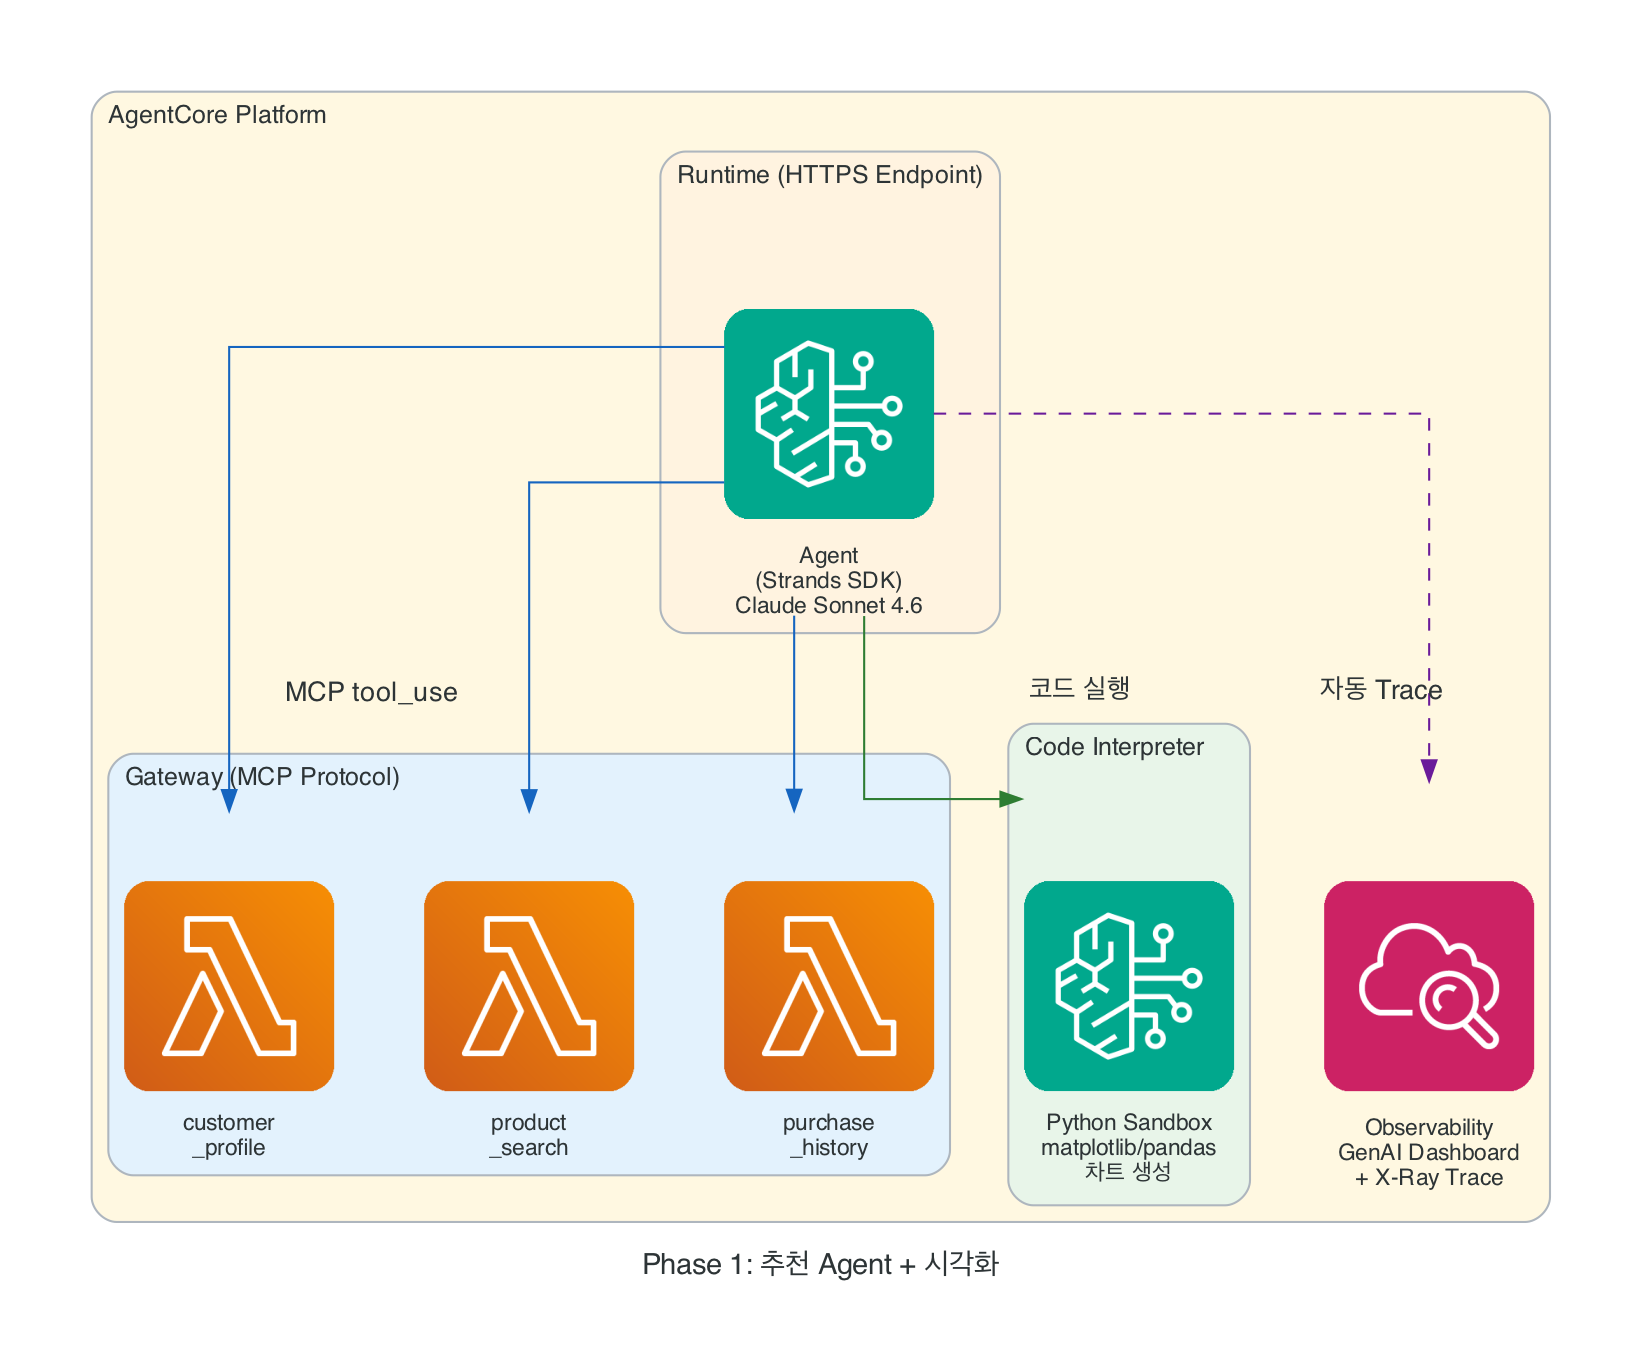
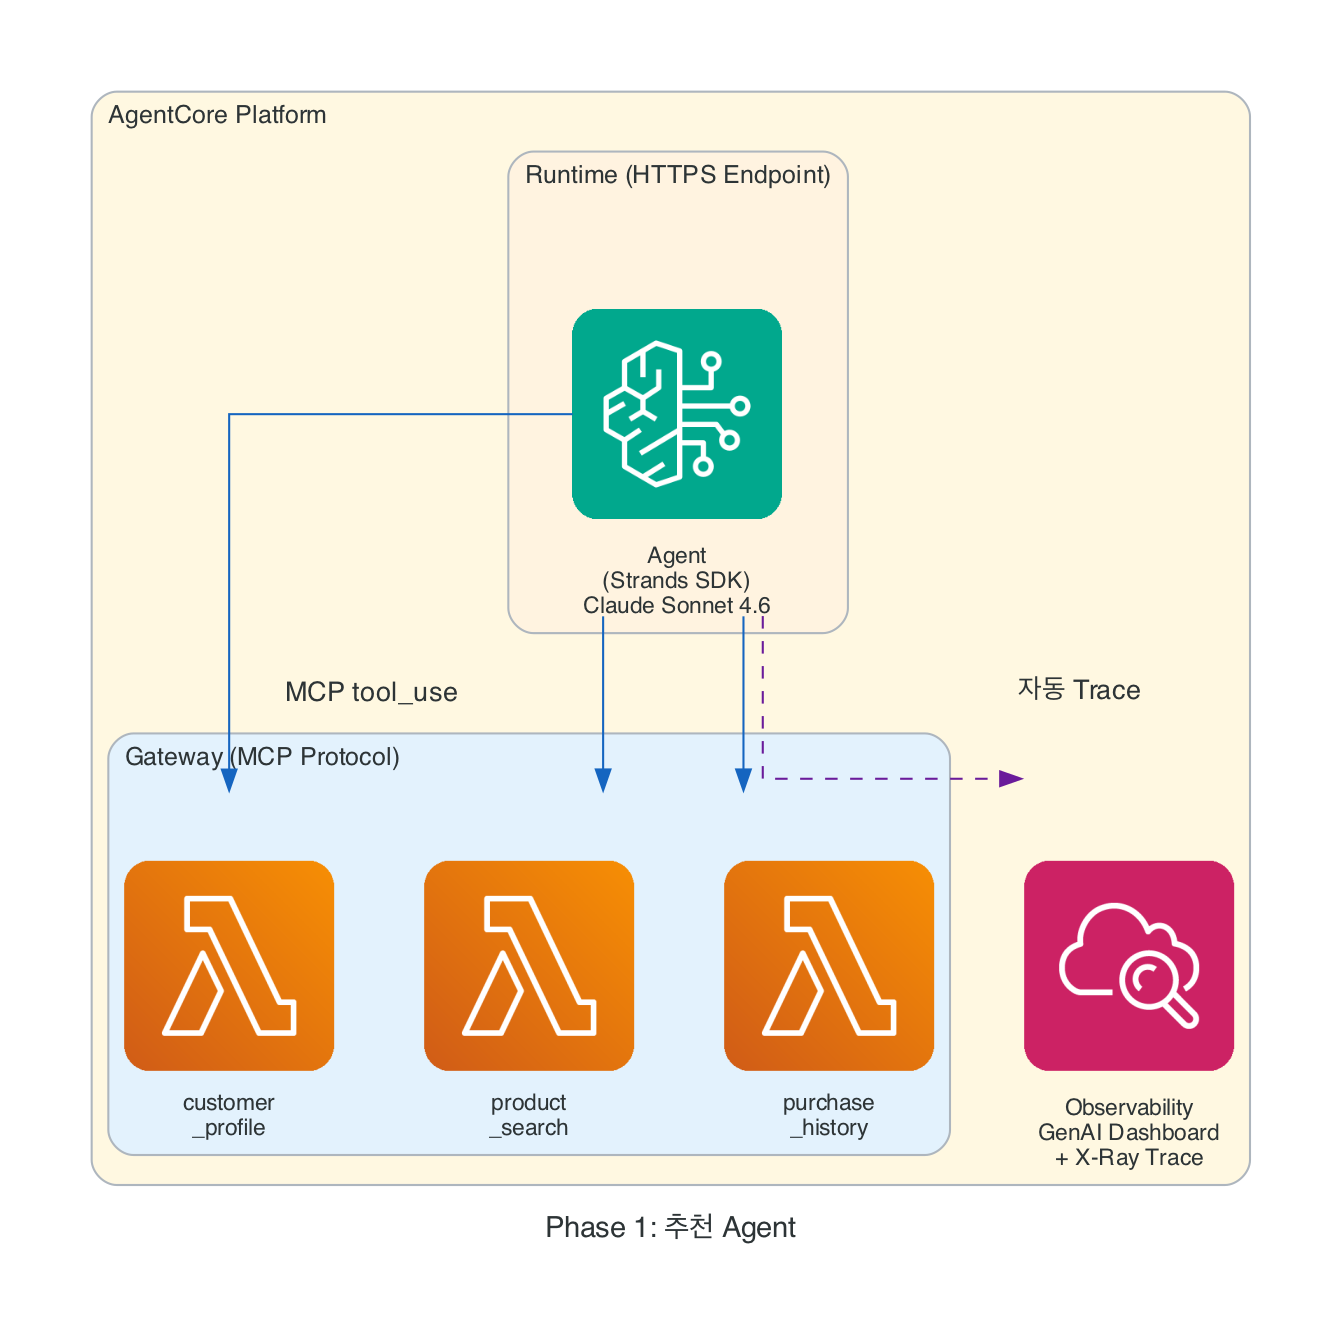
docs(phase1): 가이드-실제 코드 정합성 수정 + Agent 개념도 추가
참가자 검증 중 발견한 phase1 가이드 불일치 정리:
- step2-agent.md: import를 strands.models.bedrock로 통일(실제 main.py와 일치),
  MCPClient 인증 설명 정정(authType NONE inbound / IAM은 Gateway→Lambda outbound),
  SYSTEM_PROMPT 발췌 주석 + '핵심만 발췌' 안내 추가
- Agent 개념도(agent-anatomy.png) 신규 추가: Agent = Model + System Prompt +
  Tools(Gateway/MCP 공급). step2 상단에 삽입
- phase1 다이어그램에서 Code Interpreter 클러스터 제거(Phase 1은 시각화 미사용),
  제목 '추천 Agent + 시각화' → '추천 Agent'

diff --git a/docs/assets/gen-agent-anatomy.py b/docs/assets/gen-agent-anatomy.py
@@ -1,0 +1,79 @@
+"""
+Agent 구성 개념도 생성 (Agent = Model + System Prompt + Tools via Gateway)
+실행: .venv/bin/python docs/assets/gen-agent-anatomy.py
+출력: docs/assets/agent-anatomy.png
+graphviz(dot) 필요 — PATH에 /opt/homebrew/bin 포함해서 실행
+"""
+import os
+import subprocess
+
+OUTPUT = os.path.join(os.path.dirname(os.path.abspath(__file__)), "agent-anatomy")
+
+# 워크샵 톤(주황/시안/보라)에 맞춘 개념 조립도.
+# Agent라는 하나의 상자가 Model + System Prompt + Tools 세 재료로 조립되고,
+# Tools는 Gateway(MCP)를 통해 Lambda 3종에서 공급됨을 보여준다.
+DOT = r"""
+digraph AgentAnatomy {
+  rankdir=LR;
+  bgcolor="white";
+  pad="0.4";
+  fontname="Helvetica";
+  node [fontname="Helvetica", fontsize=13, shape=box, style="rounded,filled", penwidth=1.2];
+  edge [fontname="Helvetica", fontsize=11, color="#64748b", penwidth=1.4];
+
+  // Agent 조립 결과
+  agent [label="🤖 Agent", fillcolor="#0d9488", fontcolor="white", fontsize=18, width=1.8, height=1.0, penwidth=2];
+
+  // 3가지 재료
+  subgraph cluster_parts {
+    label="Agent = Model + System Prompt + Tools";
+    fontsize=15;
+    fontcolor="#334155";
+    style="rounded,dashed";
+    color="#94a3b8";
+    labelloc="t";
+    margin=16;
+
+    model  [label="🧠 Model\n\nClaude Sonnet 4.6\n추론·판단하는 두뇌", fillcolor="#ede9fe", color="#7c3aed", fontcolor="#4c1d95"];
+    prompt [label="📋 System Prompt\n\n행동 규칙\n(Tool 호출 순서·제약)", fillcolor="#dbeafe", color="#2563eb", fontcolor="#1e3a8a"];
+    tools  [label="🔧 Tools\n\nAgent가 쓸 수 있는 도구\n(Gateway가 공급)", fillcolor="#ffedd5", color="#ea580c", fontcolor="#7c2d12"];
+  }
+
+  // Gateway → Tools 공급 계층
+  subgraph cluster_gw {
+    label="Gateway (MCP Protocol)";
+    fontsize=13;
+    fontcolor="#0e7490";
+    style="rounded,filled";
+    fillcolor="#ecfeff";
+    color="#22d3ee";
+    labelloc="t";
+    margin=14;
+
+    l1 [label="λ customer_profile", fillcolor="#fff7ed", color="#fdba74", fontcolor="#7c2d12", fontsize=11];
+    l2 [label="λ product_search",   fillcolor="#fff7ed", color="#fdba74", fontcolor="#7c2d12", fontsize=11];
+    l3 [label="λ purchase_history", fillcolor="#fff7ed", color="#fdba74", fontcolor="#7c2d12", fontsize=11];
+  }
+
+  // 조립 화살표 (재료 → Agent)
+  model  -> agent [color="#7c3aed"];
+  prompt -> agent [color="#2563eb"];
+  tools  -> agent [color="#ea580c"];
+
+  // Gateway가 Tools를 공급 (MCP)
+  l1 -> tools [style=dashed, color="#0e7490", label="MCP", fontcolor="#0e7490"];
+  l2 -> tools [style=dashed, color="#0e7490"];
+  l3 -> tools [style=dashed, color="#0e7490"];
+}
+"""
+
+src = OUTPUT + ".dot"
+with open(src, "w") as f:
+    f.write(DOT)
+
+subprocess.run(
+    ["dot", "-Tpng", "-Gdpi=150", src, "-o", OUTPUT + ".png"],
+    check=True,
+)
+os.remove(src)
+print(f"생성 완료: {OUTPUT}.png")

diff --git a/docs/assets/gen-phase1-arch.py b/docs/assets/gen-phase1-arch.py
@@ -13,7 +13,7 @@ import os
 OUTPUT_DIR = os.path.dirname(os.path.abspath(__file__))
 
 with Diagram(
-    "Phase 1: 추천 Agent + 시각화",
+    "Phase 1: 추천 Agent",
     filename=os.path.join(OUTPUT_DIR, "phase1_architecture"),
     show=False,
     direction="TB",
@@ -37,13 +37,9 @@ with Diagram(
             t2 = Lambda("product\n_search")
             t3 = Lambda("purchase\n_history")
 
-        with Cluster("Code Interpreter", graph_attr={"bgcolor": "#e8f5e9"}):
-            ci = Bedrock("Python Sandbox\nmatplotlib/pandas\n차트 생성")
-
         obs = Cloudwatch("Observability\nGenAI Dashboard\n+ X-Ray Trace")
 
     agent >> Edge(label="MCP tool_use", color="#1565c0") >> t1
     agent >> Edge(color="#1565c0") >> t2
     agent >> Edge(color="#1565c0") >> t3
-    agent >> Edge(label="코드 실행", color="#2e7d32") >> ci
     agent >> Edge(label="자동 Trace", style="dashed", color="#6a1b9a") >> obs